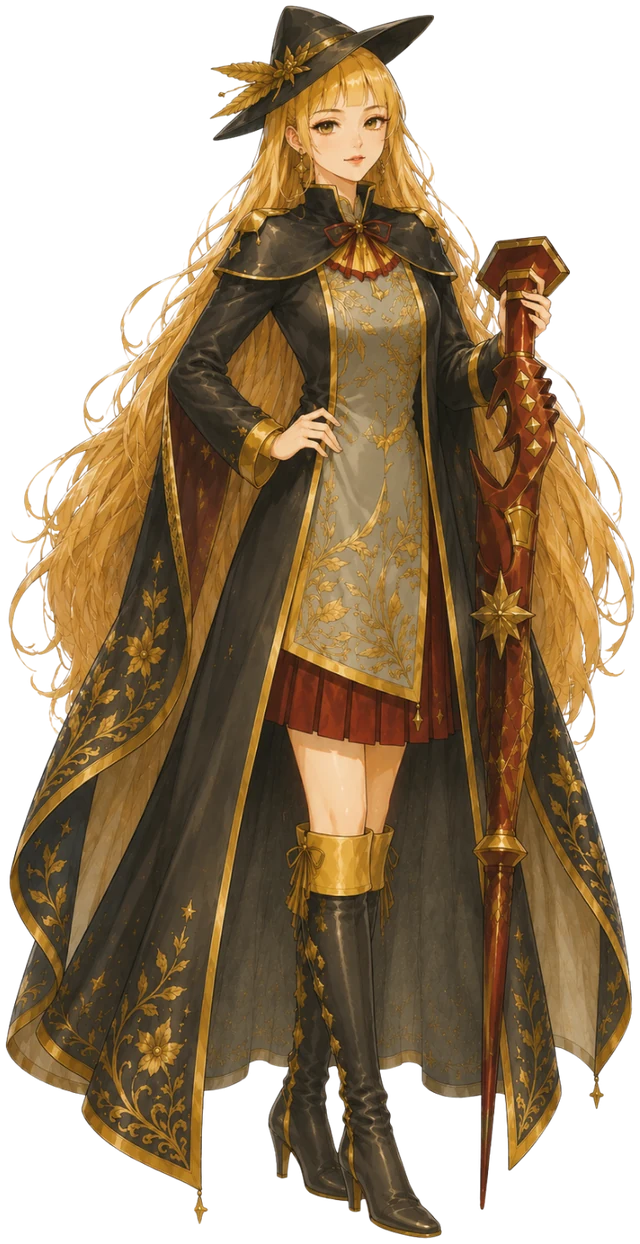
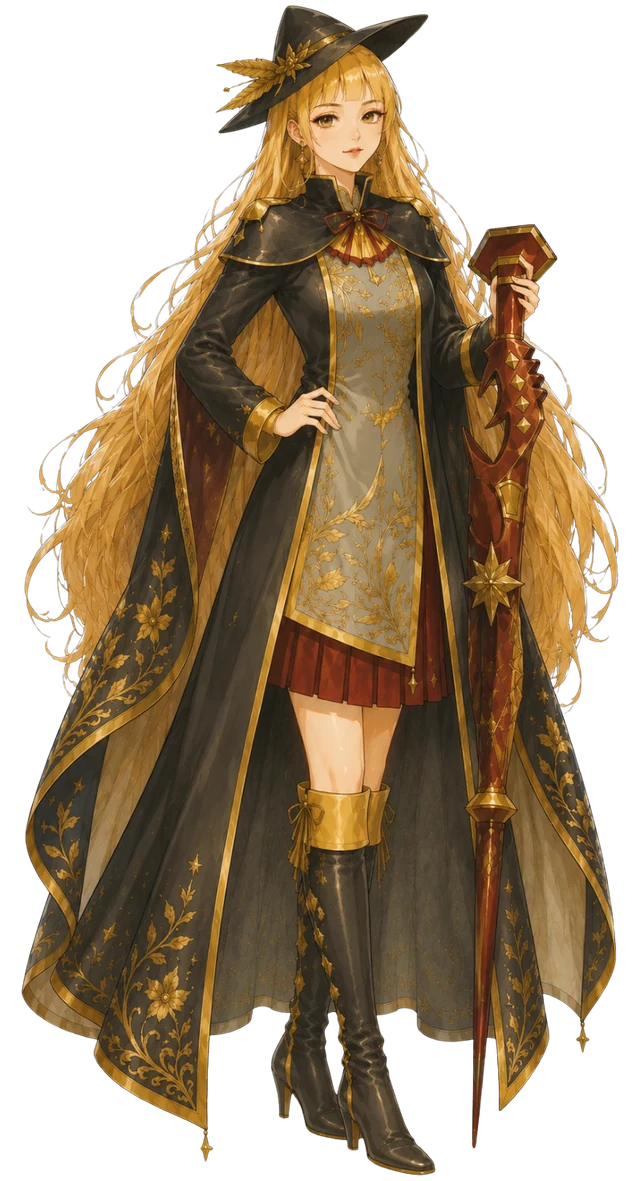
全身カットアウトのアスペクト比を揃え、キャラクターの表示サイズの不揃いを解消
.kinduo__art/.dossier__portraitはCSSで決めた箱にobject-fit:containで収めているため、
キャラクターの表示サイズは画像自身の縦横比だけで決まる。「赤い月」(male)は530×1662
(比0.32、スマホの箱の縦横比とほぼ一致)で箱の高さいっぱいまで表示される一方、
「赤い蛇」(male)は1081×1607(比0.67、腰の鞭で横に張り出す)で箱の幅で頭打ちになり、
高さにして半分未満でしか表示されていなかった(iPhone 16等、箱が縦長い機種ほど顕著、
2026-08-21指摘)。

generateSealCutouts.pyに、全カットアウトの幅を共通の目標アスペクト比まで
透過パディングする処理(pad_to_ar)を追加。目標値は今回の40枚(20紋章×2性別)の
自然な比の中央値(0.5417)を使用 — 最大値(鞭で最も横長な1枚基準)にすると、
すでに問題のなかった大多数までいっしょに縮んで箱の下に余白が目立ってしまったため、
「中央値まで狭い側だけを底上げする」方式にした。極端に横長な1〜2枚(赤い蛇・青い手)は
パディング対象外のまま(パディングは幅を広げる方向にしか働かないため)残るが、
差は2倍超→約1.1〜1.2倍まで縮小している。

実測(iPhone 16 Pro Max相当、赤い月×赤い蛇 male): 表示高さの差 111%→24%に縮小。
通常のペア(縦横比が中央値付近の組み合わせ)は今回の変更で見た目が変わらないことを
実機相当の比較で確認済み。

🤖 Generated with Claude Code

diff --git a/scripts/generateSealCutouts.py b/scripts/generateSealCutouts.py
@@ -92,6 +92,32 @@ def normalize_bust_ar(im: Image.Image, target_ar: float) -> Image.Image:
     return im
 
 
+# .kinduo__art (hero) and .dossier__portrait both lay each cutout out in a box sized by CSS
+# (not by the image), then object-fit:contain it — so a character's RENDERED size is driven
+# entirely by how its own width:height ratio compares to the box's. Two standing humanoid poses
+# end up with wildly different crop widths purely because of how far accessories (a whip, a
+# flared cloak) reach sideways — e.g. 赤い月(male)'s tight cutout is 530×1662 (ratio 0.32,
+# nearly identical to a typical phone hero box's own ratio) so it renders at the box's FULL
+# height, while 赤い蛇(male) at 1081×1607 (ratio 0.67) is much wider and gets width-capped,
+# rendering at under half that height in the same box — a same-height character pair ends up
+# looking like two different sizes (reported 2026-08-21, iPhone 16-class tall/narrow viewports
+# make it most visible since the box itself is narrowest there).
+# Fix: pad every cutout's canvas WIDTH (transparent, centered) up to a single shared aspect
+# ratio before saving, so every character has the identical ratio and therefore renders at the
+# identical height in any box, regardless of what shape that box happens to be. The target is
+# the widest natural ratio already present in this art set (computed in main(), not hardcoded —
+# using the actual widest character means nothing needs cropping, only padding) rather than an
+# arbitrary number.
+def pad_to_ar(im: Image.Image, target_ar: float) -> Image.Image:
+    w, h = im.size
+    if w / h >= target_ar - 1e-9:
+        return im
+    new_w = round(h * target_ar)
+    padded = Image.new('RGBA', (new_w, h), (0, 0, 0, 0))
+    padded.paste(im, ((new_w - w) // 2, 0), im)
+    return padded
+
+
 def find_source(raw_dir: str, seal_index: int) -> str:
     # The raw filenames' leading number is NOT sealIndex+1 — it's grouped by color family
     # (1-5 red, 6-10 white, 11-15 blue, 16-20 yellow), a different order than SEALS. Match by
@@ -136,12 +162,27 @@ def main():
 
     target_bust_ar = max(bust_slice.width / bust_slice.height for (*_, bust_slice) in entries)
     print(f'target bust aspect ratio: {target_bust_ar:.4f}')
+    # Unlike the bust target (which uses the max — cropping only ever trims excess, never loses
+    # content), the cutout target is a median, not a max. Padding narrow outliers up to the max
+    # (0.69, driven by one or two characters with a sideways-flared accessory like a whip) forces
+    # every OTHER character — including the typical ~0.45-0.65 majority that was already fine —
+    # into the same width-capped rendering, so the whole cast reads visibly smaller with empty
+    # space below (reported 2026-08-21). The median is the natural "typical" ratio for this cast;
+    # targeting it fixes the handful of outlier-narrow characters (padding them up close to
+    # everyone else) while leaving the already-typical majority untouched. The few outlier-WIDE
+    # characters (the whip accessory) stay exactly as before either way, since padding only ever
+    # widens — this narrows the gap for them from >2x down to roughly 1.1-1.2x rather than 1:1,
+    # which is an accepted tradeoff for not shrinking the whole cast to match one outlier.
+    cutout_ars = sorted(full.width / full.height for (_, _, full, _) in entries)
+    target_cutout_ar = cutout_ars[len(cutout_ars) // 2]
+    print(f'target cutout aspect ratio (median of {len(cutout_ars)}): {target_cutout_ar:.4f}')
 
-    # Pass 2: normalize every bust to that ratio, and write both webp outputs.
+    # Pass 2: normalize every bust/cutout to their respective ratios, and write both webp outputs.
     for seal_index, suffix, full, bust_slice in entries:
         name = SEAL_NAMES[seal_index]
         print(f'[{seal_index:2d}]{suffix or " (female)"} {name}')
 
+        full = pad_to_ar(full, target_cutout_ar)
         full_path = os.path.join(OUT_DIR, f'seal-{seal_index}-cutout{suffix}.webp')
         limit_width(full, MAX_CUTOUT_WIDTH).save(full_path, 'WEBP', quality=88, method=6)
 
